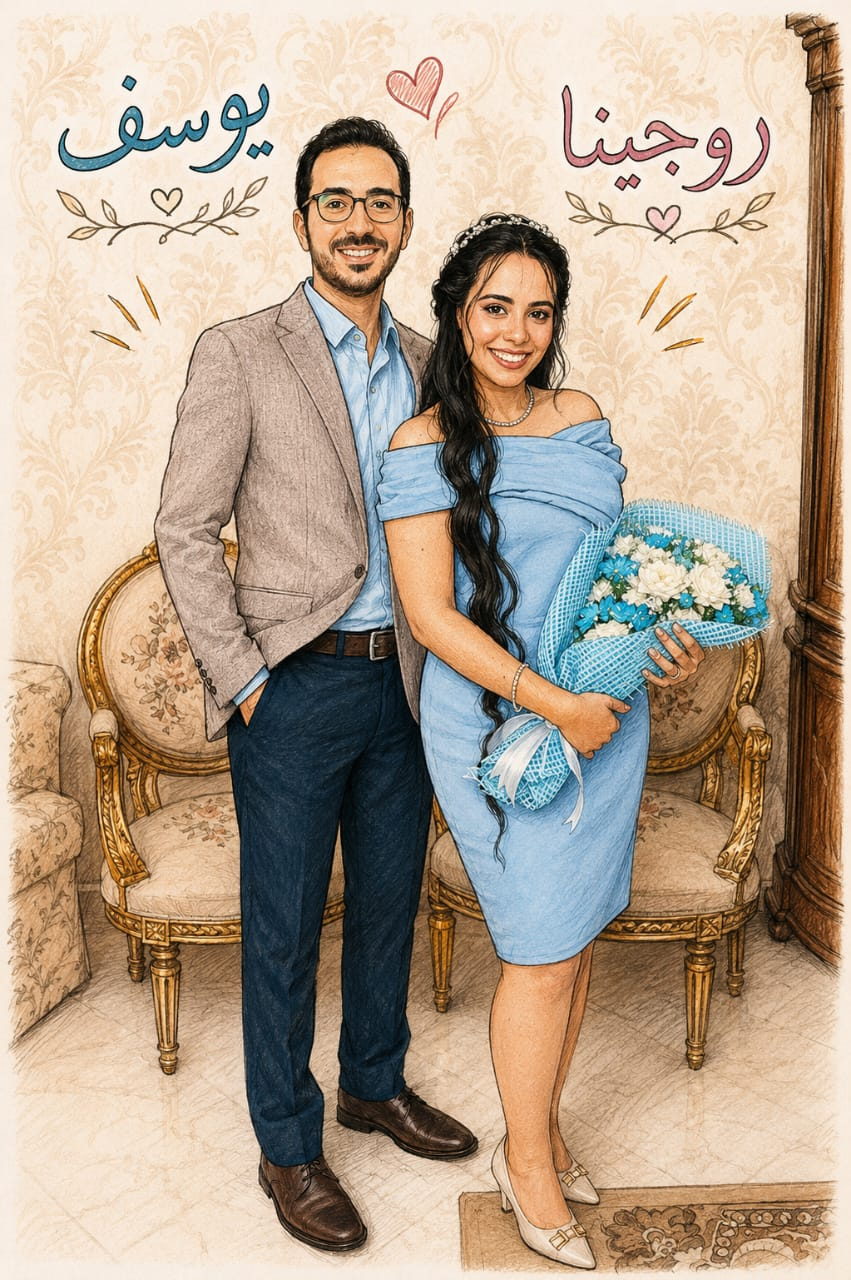
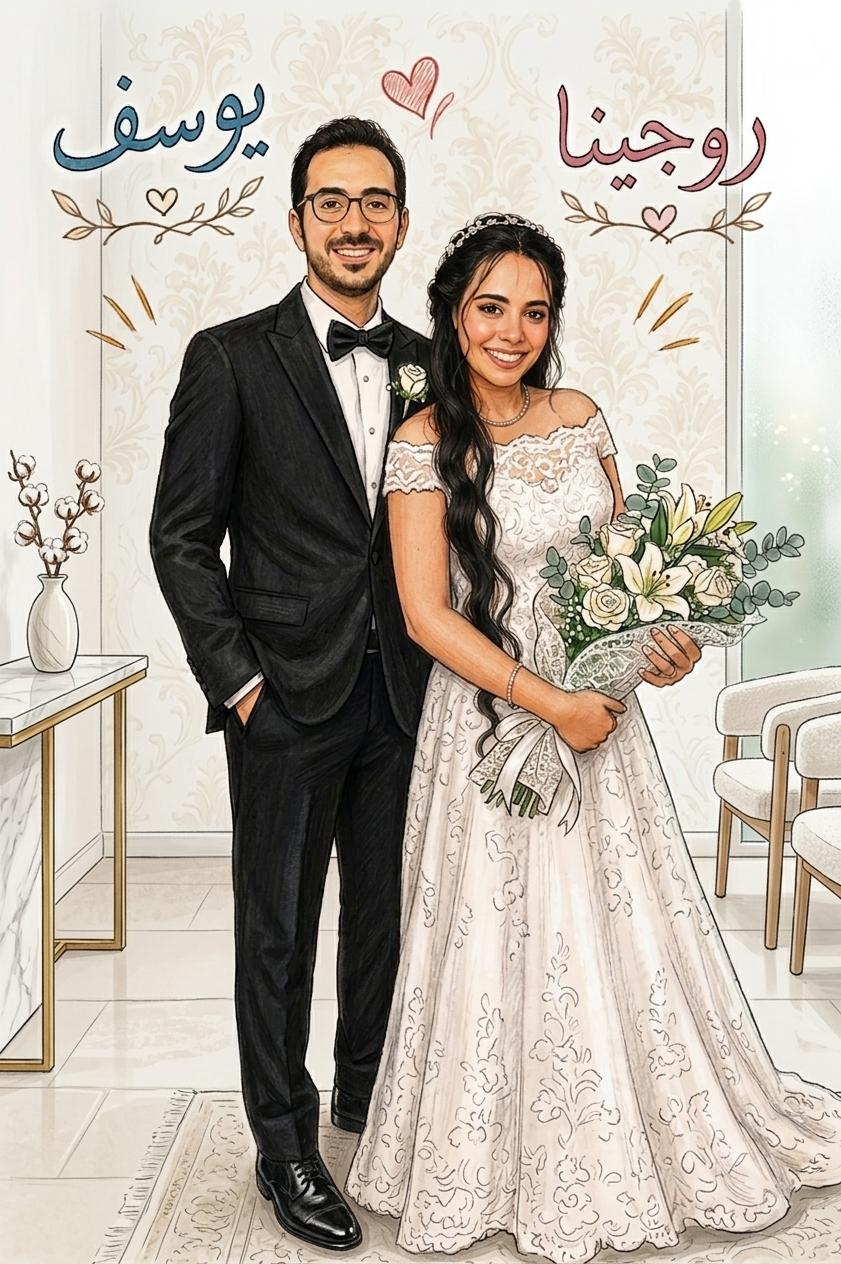
Add files via upload

diff --git a/app.js b/app.js
@@ -1,3 +1,12 @@
+
+const SUPABASE_URL = "https://xyzyfigzanqbynwjnrpp.supabase.co";
+const SUPABASE_KEY = "sb_publishable_sm1cd0QRCFM9JZ58xYpvdQ_OT-El8QQ";
+
+const supabaseClient = supabase.createClient(
+    SUPABASE_URL,
+    SUPABASE_KEY
+);
+
 document.addEventListener("DOMContentLoaded", () => {
   /* ==========================================
      SCROLL REVEAL (INTERSECTION OBSERVER)
@@ -89,50 +98,6 @@ document.addEventListener("DOMContentLoaded", () => {
     toggleGuestCount();
   }
 
-  // Pre-populated default wishes to make the wall look lively and elegant from the start
-  const defaultWishes = [
-    {
-      name: "Monica & Peter",
-      rsvp: "yes",
-      guestCount: 2,
-      text: "Sending you both all of our love. We cannot wait to see Rogina in her beautiful dress and celebrate this special milestone with you both!",
-      timestamp: new Date("2026-08-11T14:30:00").getTime()
-    },
-    {
-      name: "Uncle George & Family",
-      rsvp: "yes",
-      guestCount: 4,
-      text: "Congratulations Yousef and Rogina! May your joint path be filled with happiness, understanding, and infinite love. See you on the 23rd!",
-      timestamp: new Date("2026-08-12T09:15:00").getTime()
-    },
-    {
-      name: "Sherif Kamal",
-      rsvp: "no",
-      guestCount: 0,
-      text: "Warmest congratulations on your wedding! I am deeply sorry I won't be able to attend due to work travel, but my heart and prayers are with you both.",
-      timestamp: new Date("2026-08-12T11:45:00").getTime()
-    }
-  ];
-
-  // Load wishes from LocalStorage or use defaults
-  function getWishes() {
-    const stored = localStorage.getItem("wedding_wishes");
-    if (stored) {
-      try {
-        return JSON.parse(stored);
-      } catch (e) {
-        console.error("Error parsing stored wishes, resetting to defaults", e);
-      }
-    }
-    // Save defaults to storage on first load
-    localStorage.setItem("wedding_wishes", JSON.stringify(defaultWishes));
-    return defaultWishes;
-  }
-
-  // Save wishes to LocalStorage
-  function saveWishes(wishes) {
-    localStorage.setItem("wedding_wishes", JSON.stringify(wishes));
-  }
 
   // Format timestamp nicely
   function formatTime(timestamp) {
@@ -143,6 +108,7 @@ document.addEventListener("DOMContentLoaded", () => {
 
   // Render wishes to the list
   function renderWishes() {
+    if (!wishesList) return;
     const wishes = getWishes();
     // Sort by newest first
     wishes.sort((a, b) => b.timestamp - a.timestamp);
@@ -237,8 +203,91 @@ document.addEventListener("DOMContentLoaded", () => {
         submitBtn.disabled = false;
       }, 2500);
     });
-  }
 
-  // Initial render
+    // Initial render
+    renderWishes();
+
+    // Message handling
+    const messageForm = document.getElementById("message-form");
+    const messagesList = document.getElementById("messages-list");
+
+    function getMessages() {
+      const stored = localStorage.getItem("wedding_messages");
+      if (stored) {
+        try {
+          return JSON.parse(stored);
+        } catch (e) {
+          console.error("Error parsing stored messages, resetting", e);
+        }
+      }
+      return [];
+    }
+    function saveMessages(messages) {
+      localStorage.setItem("wedding_messages", JSON.stringify(messages));
+    }
+    function renderMessages() { if (!messagesList) return;
+      const messages = getMessages();
+      messages.sort((a, b) => b.timestamp - a.timestamp);
+      messagesList.innerHTML = "";
+      messages.forEach(msg => {
+        const card = document.createElement("div");
+        card.className = "wish-card";
+        card.innerHTML = `
+          <div class="wish-header">
+            <span class="wish-name">${escapeHTML(msg.name)}</span>
+          </div>
+          <p class="wish-text">"${escapeHTML(msg.text)}"</p>
+          <div class="wish-time">${formatTime(msg.timestamp)}</div>
+        `;
+        messagesList.appendChild(card);
+      });
+    }
+    if (messageForm) {
+      messageForm.addEventListener("submit", async (e) => {
+        e.preventDefault();
+        const nameInput = document.getElementById("message-name");
+        const textInput = document.getElementById("message-text");
+        const nameText = nameInput.value.trim();
+        const messageText = textInput.value.trim();
+
+        if (!nameText || !messageText) {
+          alert("Please enter both your name and a message.");
+          return;
+        }
+
+        const submitBtn = messageForm.querySelector(".submit-btn");
+        const original = submitBtn.innerHTML;
+        submitBtn.disabled = true;
+        
+        try {
+          const { error } = await supabaseClient
+            .from("messages")
+            .insert({ name: nameText, message: messageText });
+
+          if (error) {
+            throw error;
+          }
+
+          nameInput.value = "";
+          textInput.value = "";
+          
+          submitBtn.innerHTML = `<span>Sent!</span> <i class="fa-solid fa-heart" style="color: var(--heart-red); animation: pulse-heart 0.5s infinite alternate;"></i>`;
+          submitBtn.style.backgroundColor = "hsl(120, 30%, 30%)";
+          
+          setTimeout(() => {
+            submitBtn.innerHTML = original;
+            submitBtn.style.backgroundColor = "";
+            submitBtn.disabled = false;
+          }, 2500);
+        } catch (error) {
+          console.error("Error saving message:", error);
+          alert("There was an error sending your message. Please try again.");
+          submitBtn.disabled = false;
+          submitBtn.innerHTML = original;
+        }
+      });
+    }
+    renderMessages();// Initial render
+  }
   renderWishes();
 });

diff --git a/index.html b/index.html
@@ -3,7 +3,7 @@
 <head>
   <meta charset="UTF-8">
   <meta name="viewport" content="width=device-width, initial-scale=1.0">
-  <title>Wedding Invitation | Yousef & Rogina</title>
+
   <!-- Google Fonts -->
   <link rel="preconnect" href="https://fonts.googleapis.com">
   <link rel="preconnect" href="https://fonts.gstatic.com" crossorigin>
@@ -173,89 +173,43 @@
           <i class="fa-solid fa-location-dot"></i> View on Google Maps
         </a>
       </div>
-    </section>
 
-
-    <!-- RSVP & Guestbook / Comments Section -->
-    <section class="section comments-section reveal" id="comments">
+    <!-- Message / Autograph Section -->
+    <section class="section message-section reveal" id="message-section">
       <div class="decor-corner top-left"></div>
       <div class="decor-corner top-right"></div>
-      
-      <div class="wax-seal animate-bounce">
-        <span class="wax-seal-text">Y&R</span>
-      </div>
 
-      <h2 class="section-title">Wishes & RSVP</h2>
-      <p class="section-subtitle">Leave a blessing for the newlyweds</p>
+  
 
-      <form id="comment-form" class="comment-form">
+      <h2 class="section-title">Leave us a Message</h2>
+<p class="section-subtitle">Share your wishes or a personal note with the couple</p>
+
+      <form id="message-form" class="comment-form">
         <div class="form-group">
-          <label for="guest-name">Your Name</label>
-          <input type="text" id="guest-name" required placeholder="E.g., John Doe">
+          <label for="message-name">Your Name</label>
+          <input type="text" id="message-name" required >
         </div>
-
         <div class="form-group">
-          <label for="rsvp-status">Will you attend?</label>
-          <div class="rsvp-toggle-group">
-            <label class="rsvp-option">
-              <input type="radio" name="rsvp" value="yes" checked>
-              <span>Joyfully Accept</span>
-            </label>
-            <label class="rsvp-option">
-              <input type="radio" name="rsvp" value="no">
-              <span>Regretfully Decline</span>
-            </label>
-          </div>
-        </div>
-
-        <div class="form-group slide-fade" id="guest-count-group">
-          <label for="guest-count">Number of Guests</label>
-          <select id="guest-count" class="elegant-select">
-            <option value="1">1 Guest</option>
-            <option value="2" selected>2 Guests</option>
-            <option value="3">3 Guests</option>
-            <option value="4">4+ Guests</option>
-          </select>
-        </div>
-
-        <div class="form-group">
-          <label for="comment-text">Wishes / Blessings</label>
+          <label for="message-text">Message</label>
           <div class="decorated-textbox-wrapper">
-            <textarea id="comment-text" rows="4" required placeholder="Write your warm wishes here..."></textarea>
-            <!-- Ornamental Border Elements -->
+            <textarea id="message-text" rows="4" required placeholder="Write your warm wishes here..."></textarea>
             <div class="textbox-ornament top-left-ornament"></div>
             <div class="textbox-ornament top-right-ornament"></div>
             <div class="textbox-ornament bottom-left-ornament"></div>
             <div class="textbox-ornament bottom-right-ornament"></div>
           </div>
         </div>
-
         <button type="submit" class="submit-btn">
-          <span>Send Wishes</span>
+          <span>Send Message</span>
           <i class="fa-regular fa-paper-plane"></i>
         </button>
       </form>
-
-      <!-- Wishes Wall / Comments List -->
-      <div class="wishes-wall-container">
-        <h3>Wishes Wall</h3>
-        <div id="wishes-list" class="wishes-list">
-          <!-- Will be populated dynamically via JavaScript -->
-        </div>
-      </div>
-
-      <div class="footer-note">
-        <p>With Love,</p>
-        <p class="footer-names">Yousef & Rogina</p>
-        <p class="footer-copyright">&copy; 2026. Made with love.</p>
-      </div>
-
-      <div class="decor-corner bottom-left"></div>
-      <div class="decor-corner bottom-right"></div>
     </section>
 
-  </div>
+    <!-- Wishes & RSVP section removed -->
 
+  </div>
+  <script src="https://cdn.jsdelivr.net/npm/@supabase/supabase-js@2"></script>
   <script src="app.js"></script>
 </body>
 </html>

diff --git a/style.css b/style.css
@@ -3,11 +3,13 @@
    ========================================== */
 :root {
   /* Color Palette */
-  --bg-cream: hsl(38, 40%, 98%);
+  --bg-cream: hsl(38, 40%, 100%);
   --bg-card: hsl(0, 0%, 100%);
   --text-dark: hsl(30, 15%, 20%);
+  --text-darker: hsl(30, 15%, 12%);
   --text-muted: hsl(30, 8%, 45%);
   --gold: hsl(43, 60%, 48%);
+  --gold-dark: hsl(43, 60%, 40%);
   --gold-light: hsl(43, 60%, 94%);
   --gold-glow: hsla(43, 60%, 48%, 0.3);
   --blush: hsl(340, 45%, 95%);
@@ -37,7 +39,7 @@
 }
 
 body {
-  background-color: hsl(38, 20%, 93%);
+  background-color: hsl(38, 20%, 96%);
   font-family: var(--font-sans);
   color: var(--text-dark);
   display: flex;
@@ -133,13 +135,8 @@ body {
   background-color: var(--bg-cream);
 }
 
-.section-title {
-  font-family: var(--font-serif);
-  font-size: 2.2rem;
-  font-weight: 500;
-  color: var(--text-dark);
-  margin-bottom: 8px;
-  letter-spacing: 1px;
+.message-section .section-title {
+  color: var(--text-darker);
 }
 
 .section-subtitle {
@@ -518,23 +515,26 @@ body {
 .wax-seal {
   width: 76px;
   height: 76px;
-  background: radial-gradient(circle, hsl(354, 70%, 54%) 0%, hsl(354, 70%, 35%) 100%);
-  border-radius: 50%;
   display: flex;
   justify-content: center;
   align-items: center;
-  color: white;
-  font-family: var(--font-serif);
-  font-weight: 700;
-  font-size: 1.25rem;
-  letter-spacing: 1px;
-  box-shadow: 0 6px 15px rgba(0, 0, 0, 0.22), inset 0 2px 4px rgba(255,255,255,0.25), inset 0 -4px 6px rgba(0,0,0,0.45);
-  border: 2px solid hsl(354, 75%, 28%);
+  background: var(--bg-cream); /* match page background */
+  border: none; /* Remove border */
   margin-bottom: 24px;
   position: relative;
   transform: rotate(-8deg);
   z-index: 2;
 }
+
+.wax-seal-logo {
+  width: 100%;
+  height: 100%;
+  object-fit: cover;
+  border-radius: 50%;
+  box-shadow: 0 6px 15px rgba(0, 0, 0, 0.22);
+  filter: hue-rotate(0deg) saturate(1) brightness(0.9); /* slightly darker gold */
+}
+
 
 .wax-seal::after {
   content: '';
